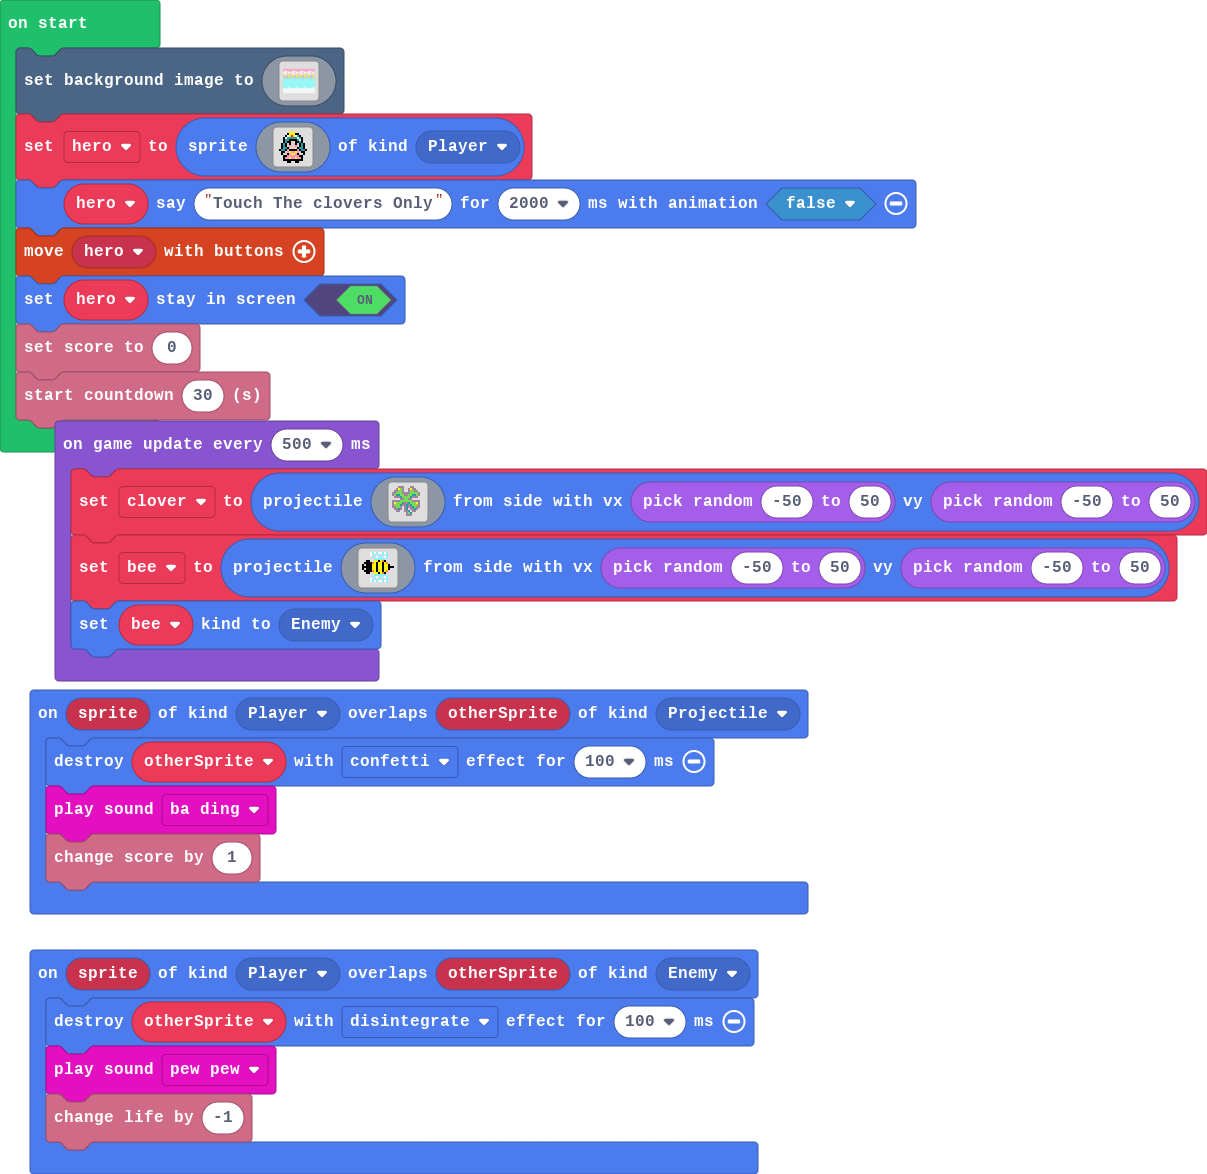
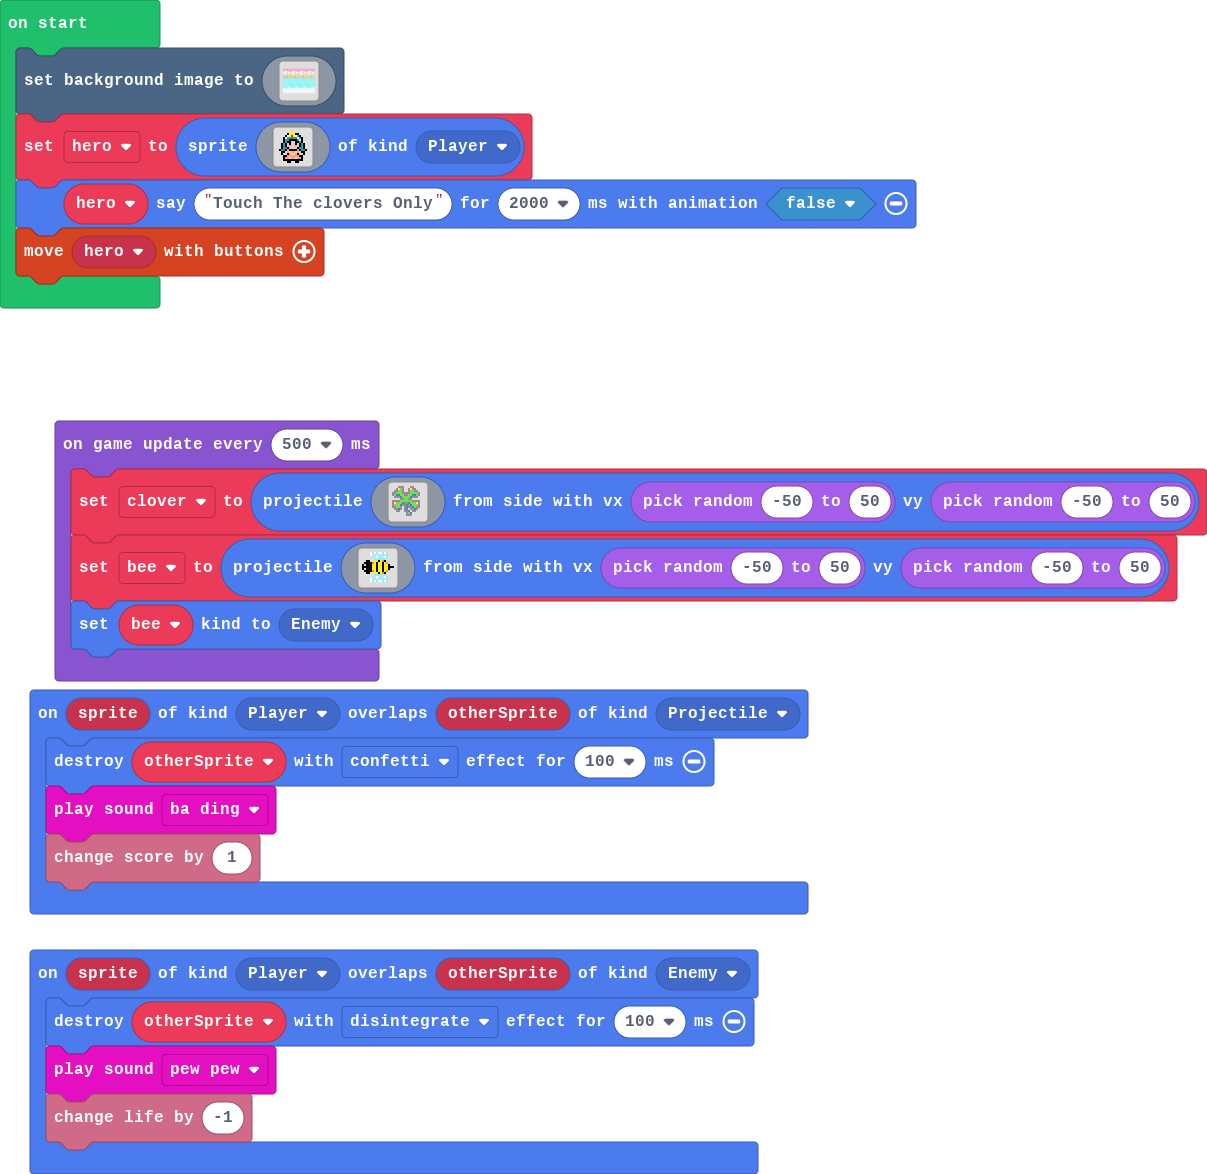
Update main.blocks, main.ts

Changed region(s): [[0.0, 0.2147, 0.3372, 0.3986]]

diff --git a/main.ts b/main.ts
@@ -152,9 +152,6 @@ let hero = sprites.create(img`
     `, SpriteKind.Player)
 hero.sayText("Touch The clovers Only", 2000, false)
 controller.moveSprite(hero)
-hero.setStayInScreen(true)
-info.setScore(0)
-info.startCountdown(30)
 game.onUpdateInterval(500, function () {
     clover = sprites.createProjectileFromSide(img`
         . . . b b b . . . b b . . . . . 
